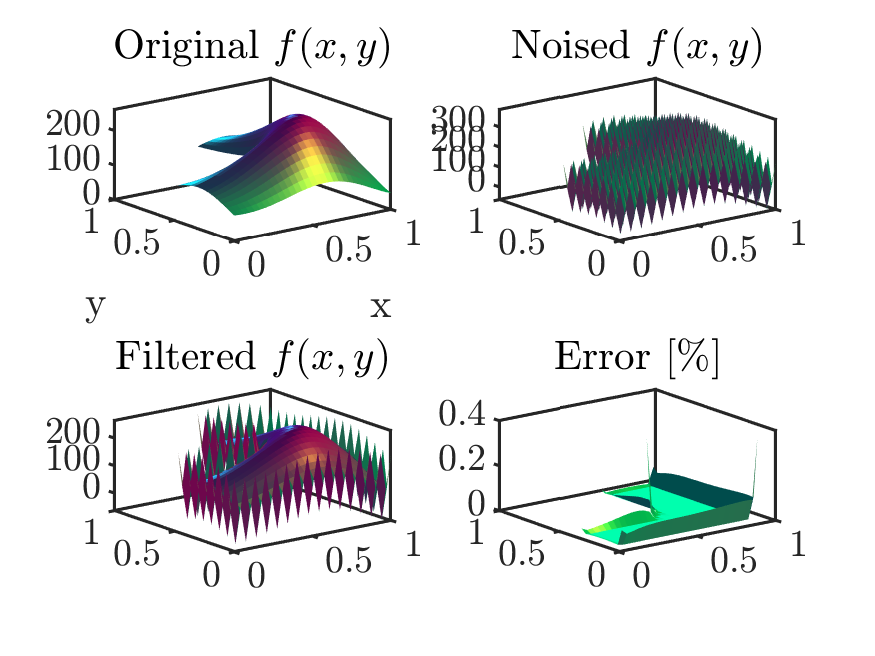
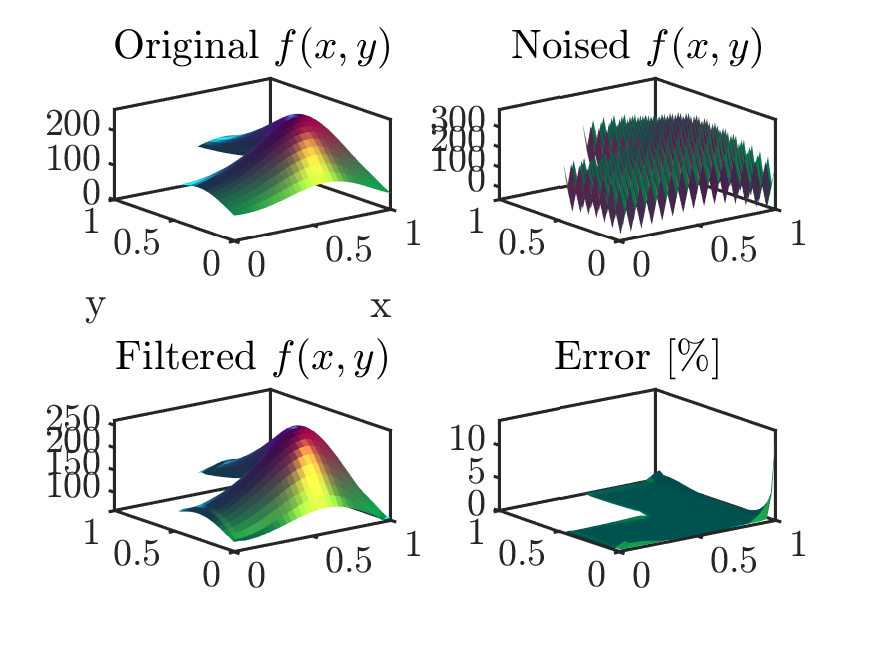
replace wrong figure

diff --git a/compactFiltersWithHoles.m b/compactFiltersWithHoles.m
@@ -47,8 +47,8 @@ methods
                 general = @(N) obj.AllpossibleNonZeroElements(P,N);
         case 'TaylorFilterWithBoundaries'
                 filter = @obj.buildHighPassFilterWithBoundaries;
-                mask_filter = obj.extendMaskHoles(mask_holes,P,obj.Size);
-                %mask_filter = mask_holes;
+                %mask_filter = obj.extendMaskHoles(mask_holes,P,obj.Size);
+                mask_filter = mask_holes;
                 general = @(N) obj.AllpossibleNonZeroElements(max(7,P),N);
         otherwise
                 disp("Schemes available: ");
